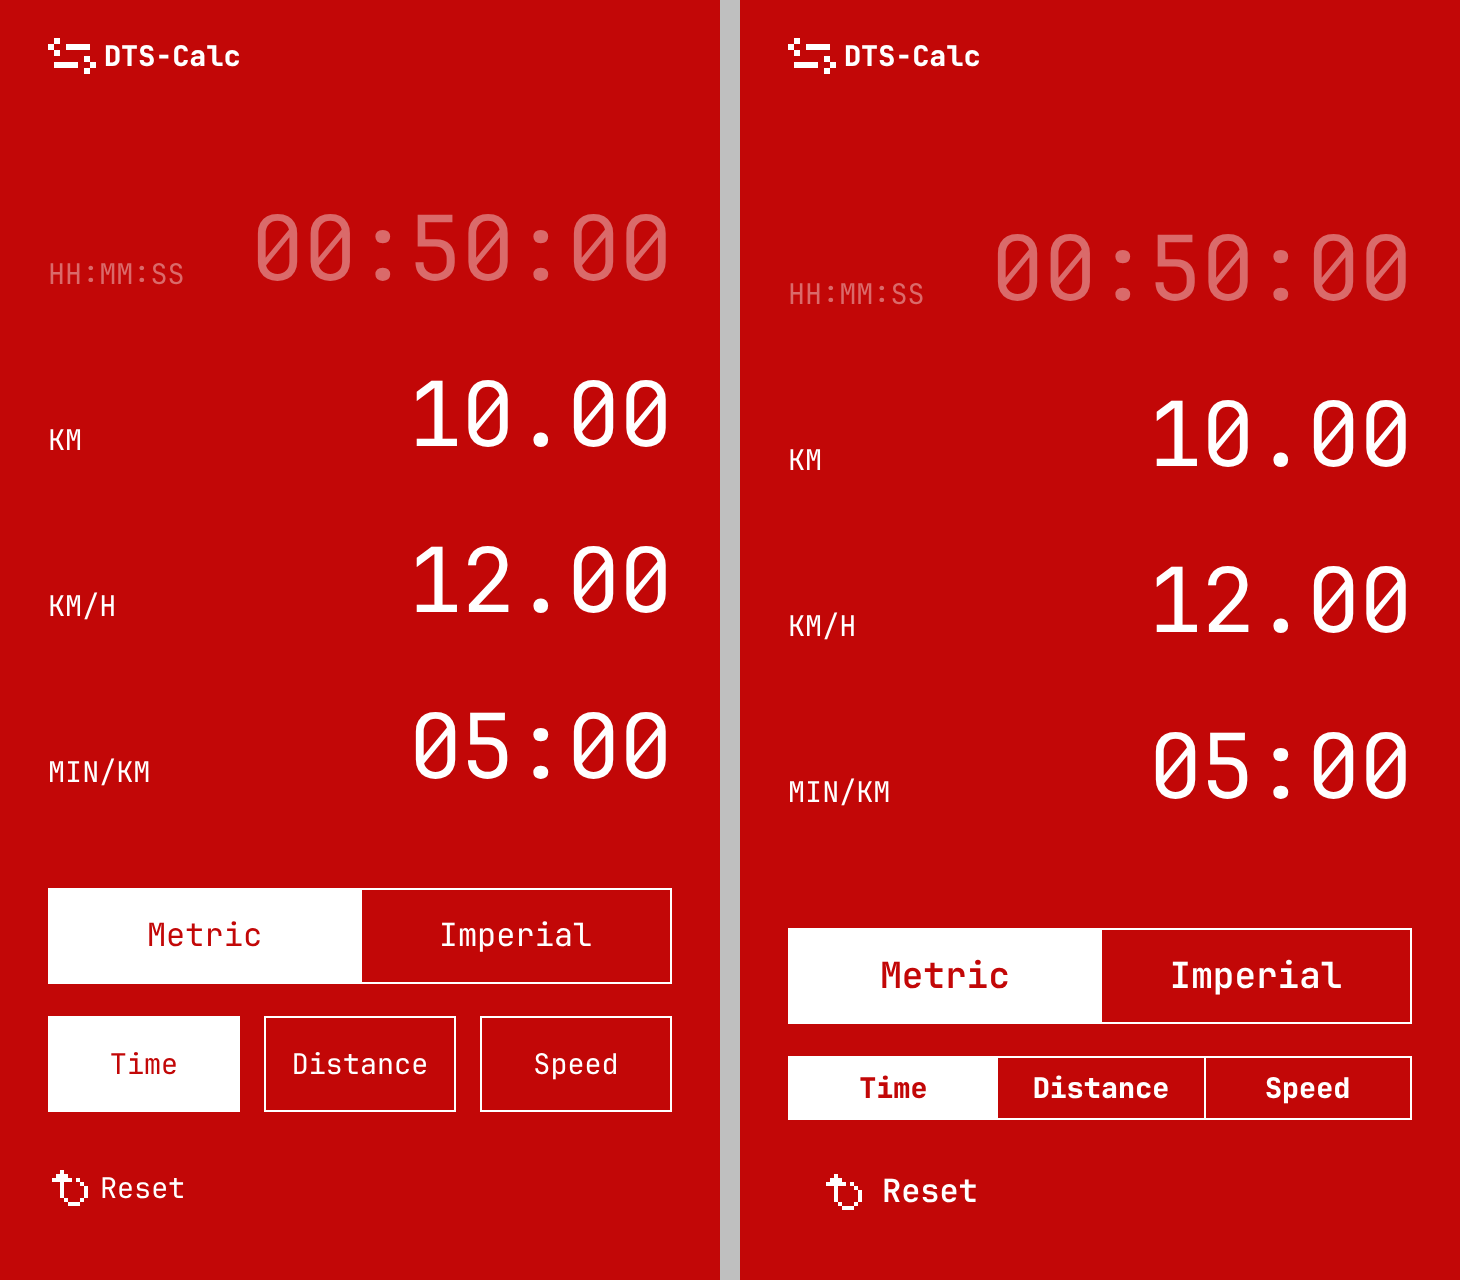
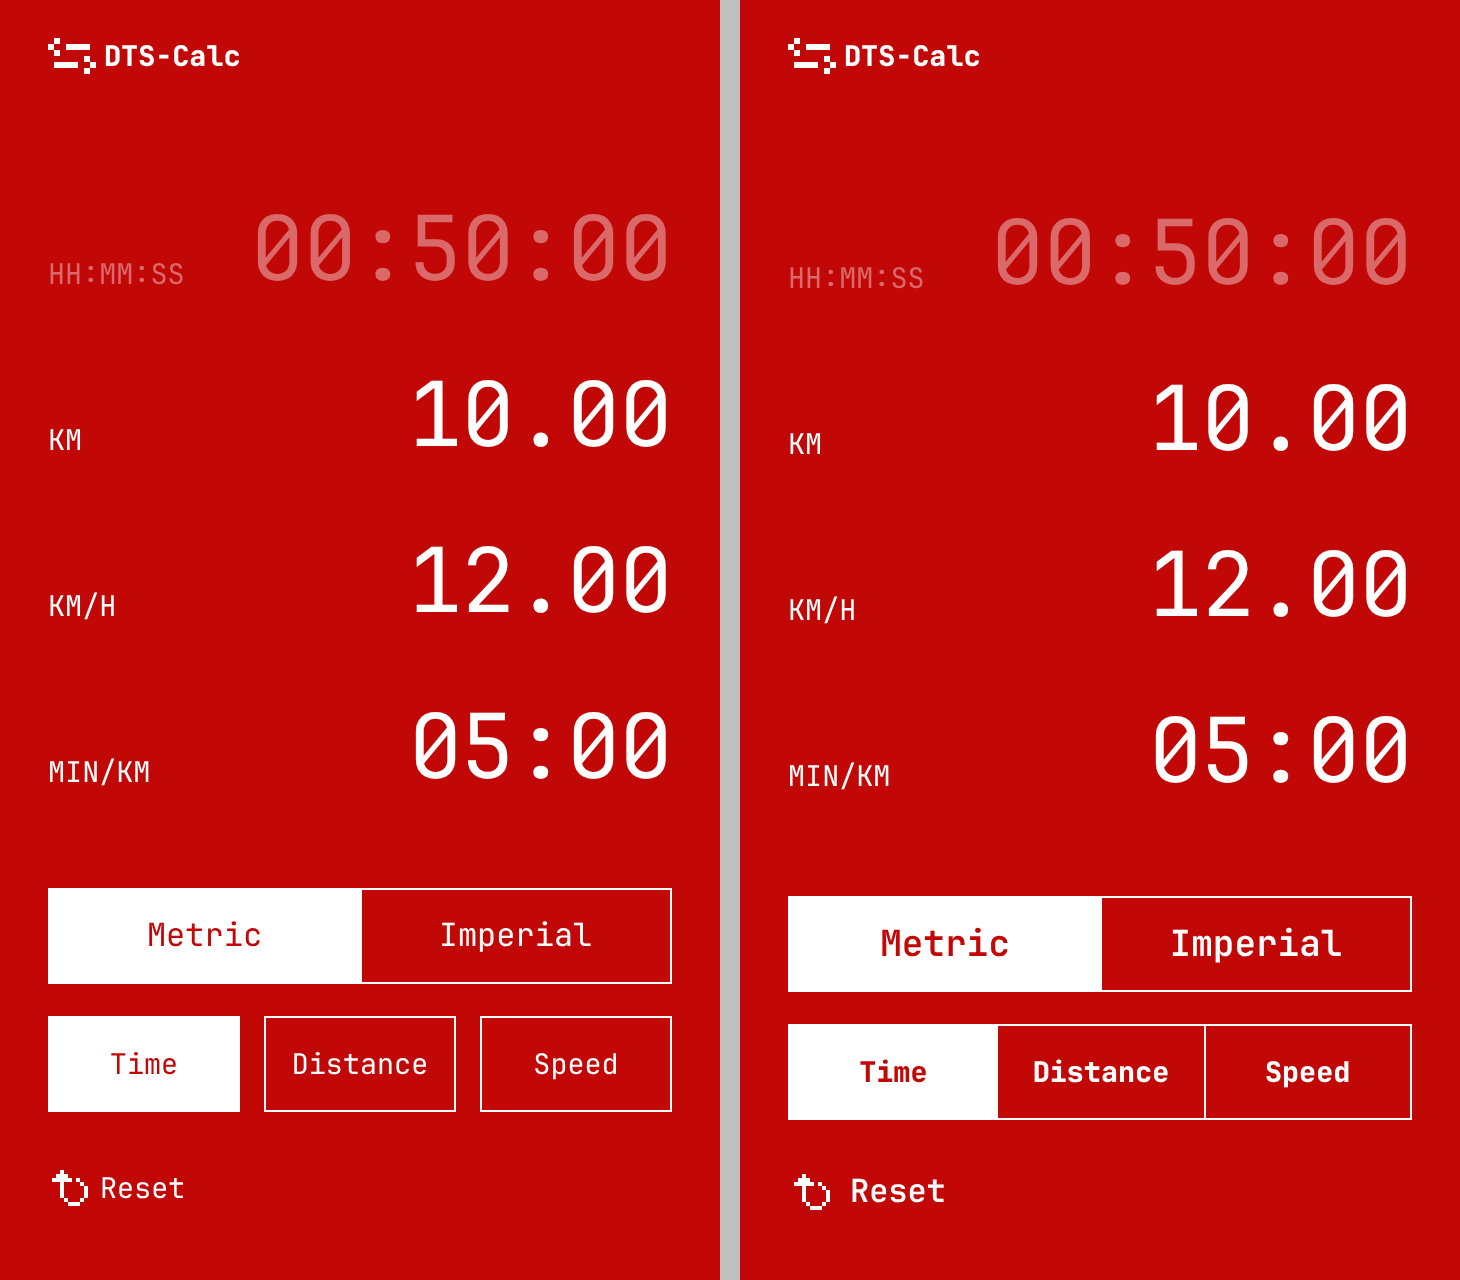
APP-250: keep the 3rem height for the target group
Small label size so Distance fits on a 360px phone, large control height as before.

Claude-Session: https://claude.ai/code/session_01XN9VLgBPy5QuqEwPyMA3dh

diff --git a/components/PaceCalculator.tsx b/components/PaceCalculator.tsx
@@ -249,7 +249,7 @@ export default function PaceCalculator() {
             <Segmented
               aria-label="Solve for"
               size="s"
-              className="ctds-fill"
+              className="ctds-fill ctds-targets"
               options={TARGET_OPTIONS}
               value={view.activeTarget ?? null}
               onChange={(target) => apply({ type: 'setTarget', target })}

diff --git a/app/globals.css b/app/globals.css
@@ -220,6 +220,11 @@ button {
     width: 100%;
 }
 
+/* The three targets use the small label size so "Distance" fits on a 360px phone, but keep the large control height (3rem, a Monoform step) they always had. */
+.ctds-controls .mf-segmented.ctds-targets {
+    --mf-segmented-h: var(--control-l);
+}
+
 .ctds-reset {
     display: flex;
     align-items: center;
